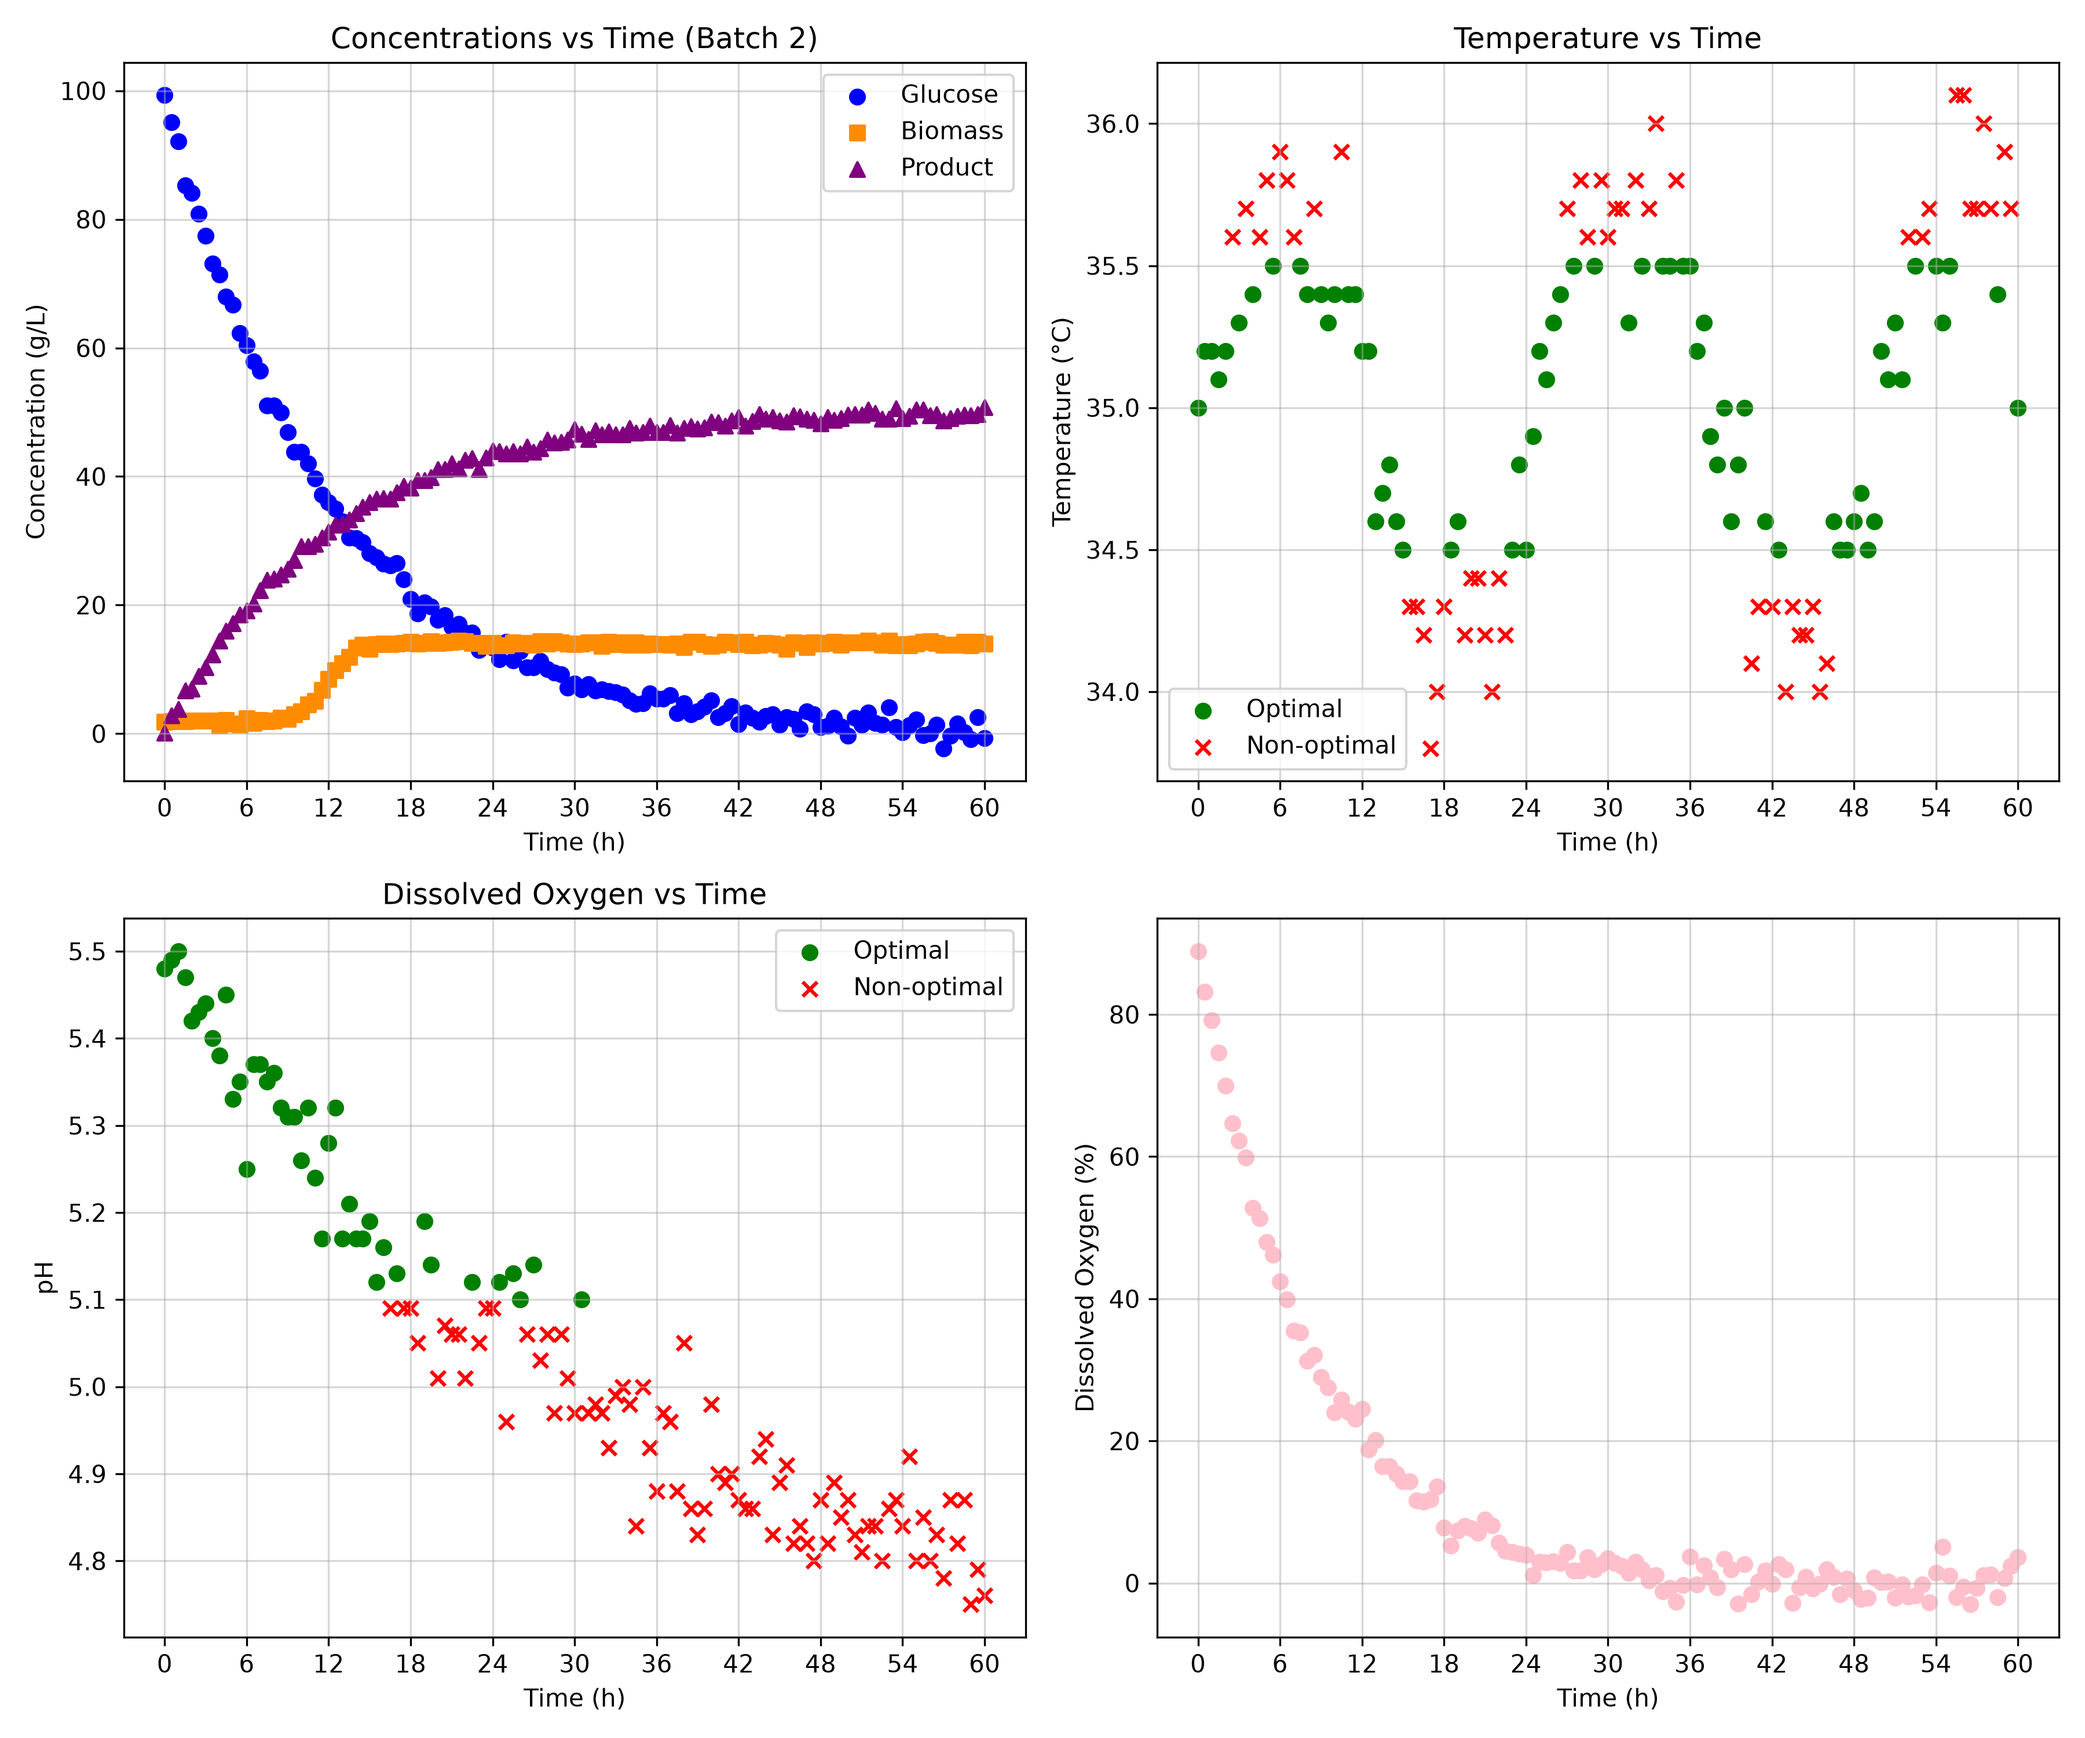
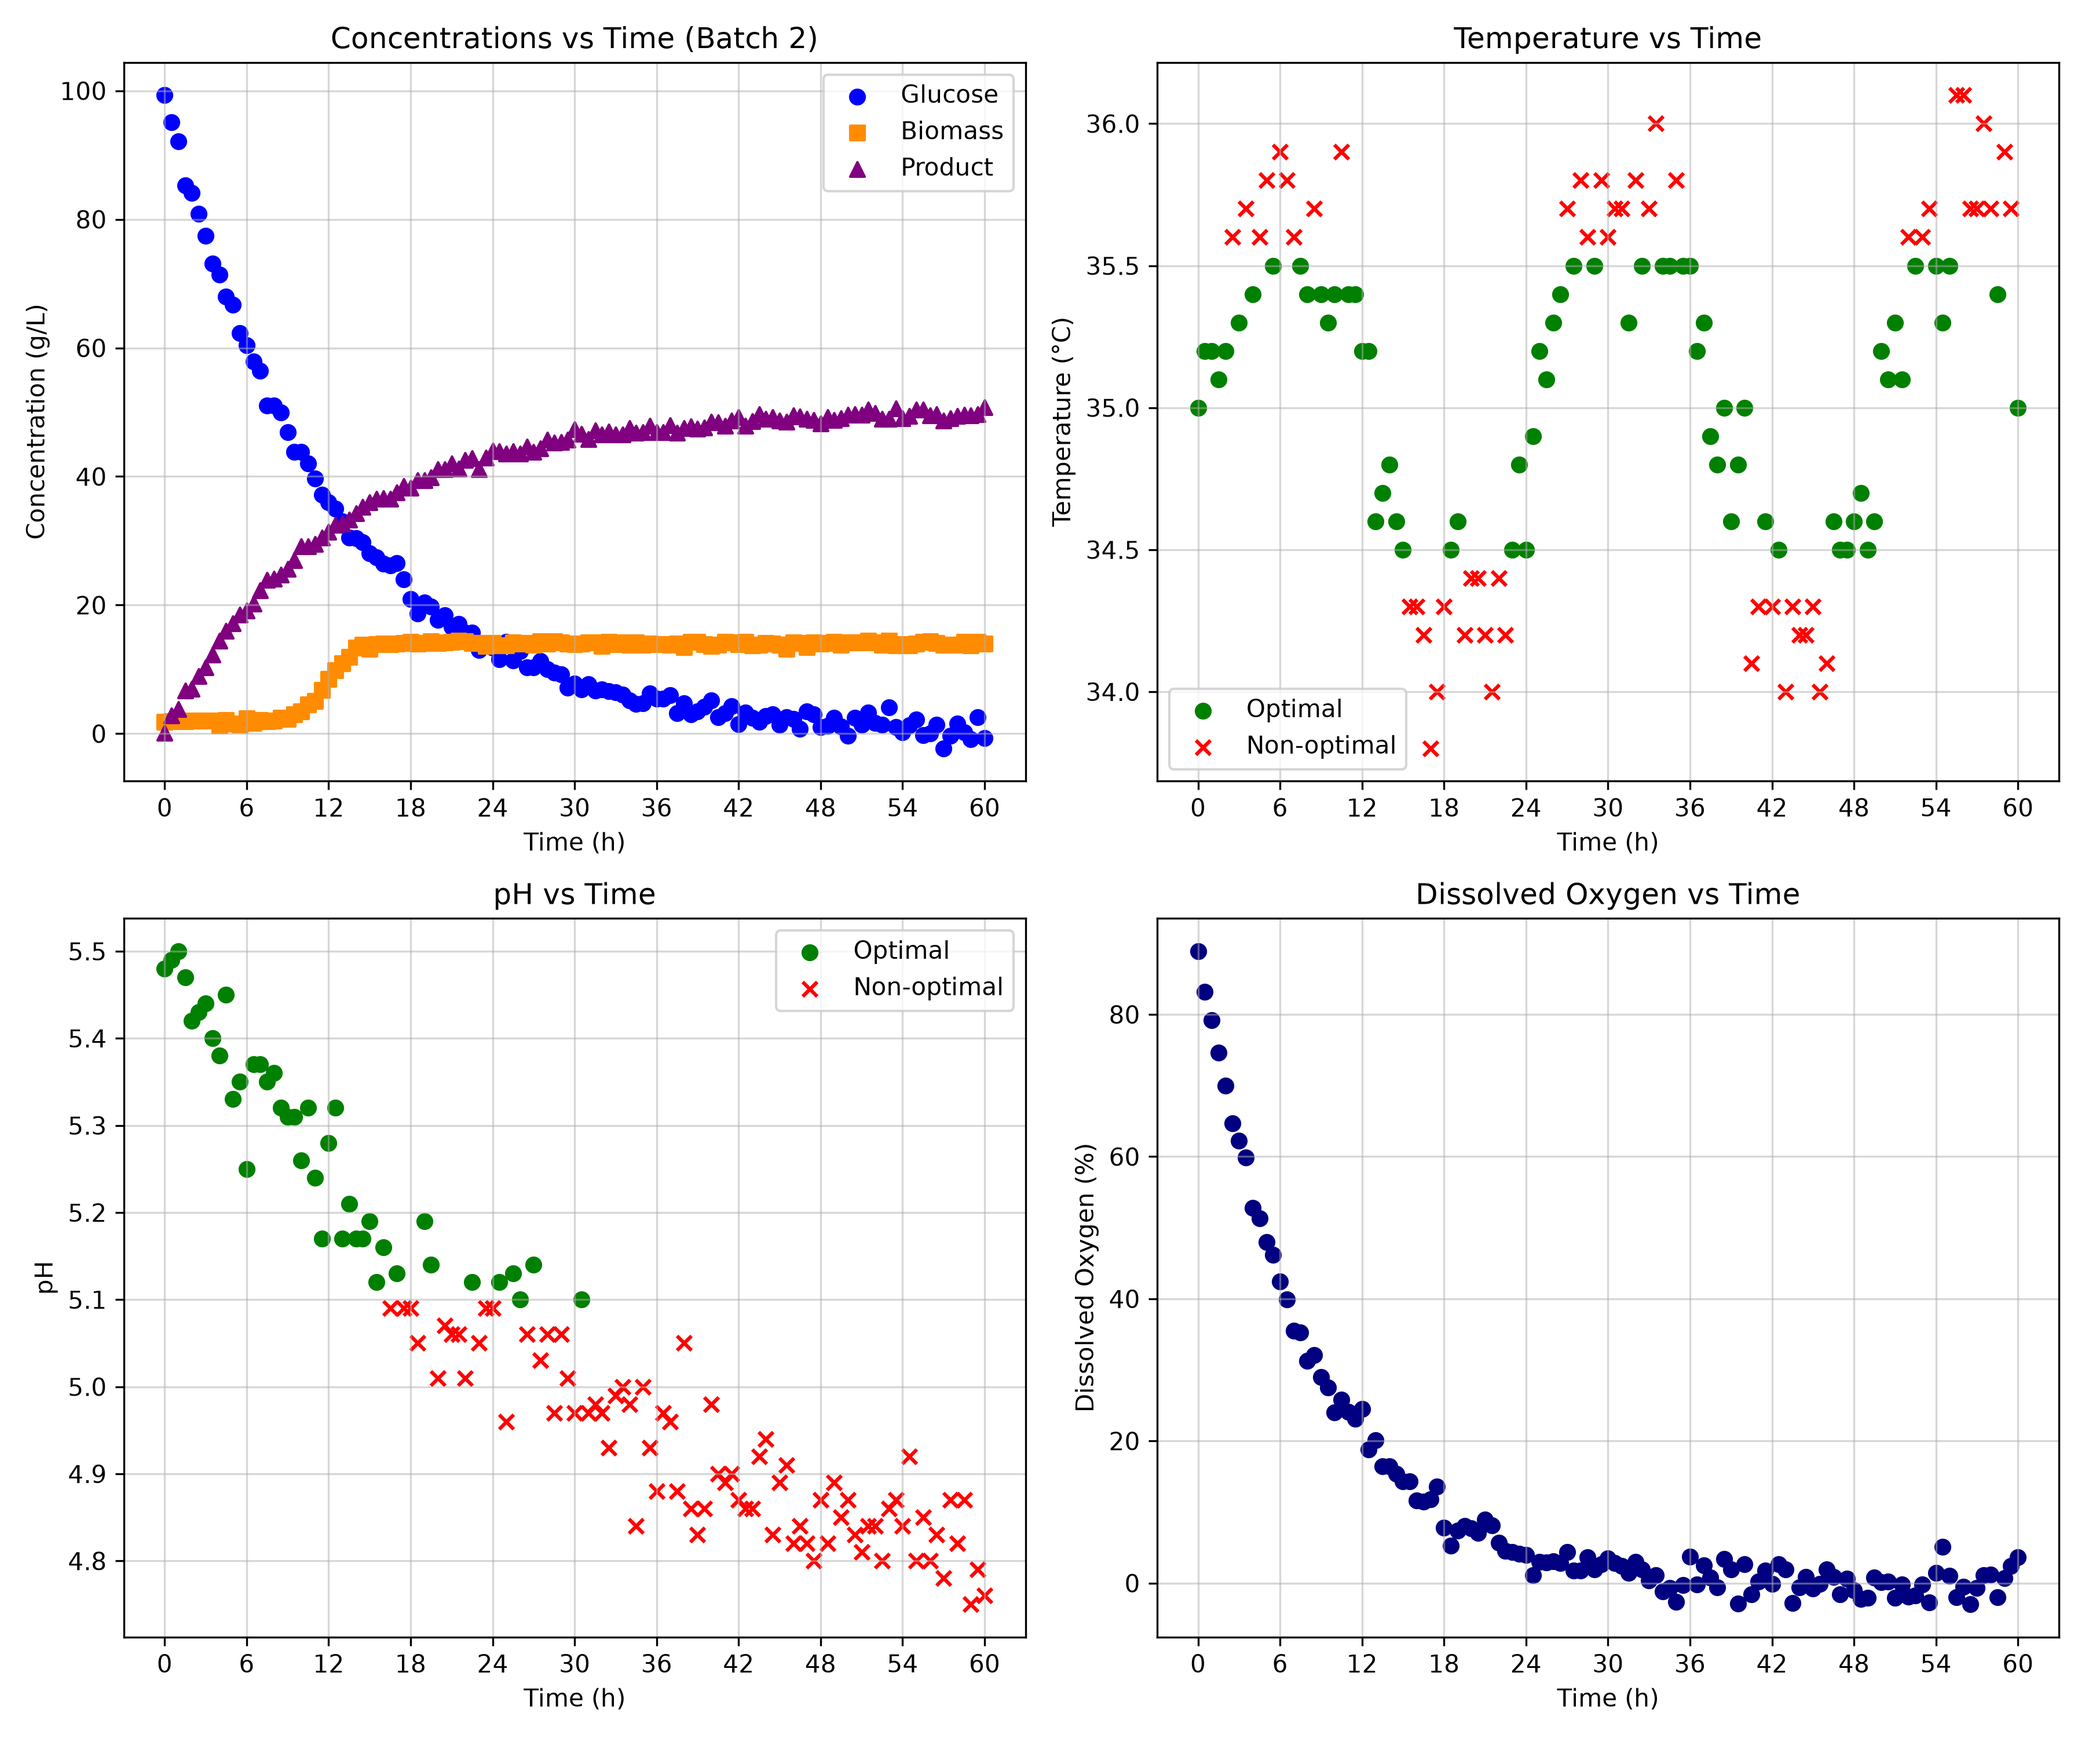
Complete Bioprocess Monitor

diff --git a/main.py b/main.py
@@ -2,9 +2,9 @@
 # MAIN PROGRAM
 # =====================================================================
 
-import src.functions as sf  # This allows you to access functions from functions.py using sf.function_name()
-from src.classes import Batch  # This allows you to import individual Classes from classes.py
-from src.constants import *  # This imports all constants from constants.py
+import src.functions as sf
+from src.classes import Batch
+from src.constants import *
 
 ph_optimal = sf.calculate_average(PH_LIMITS)
 temperature_optimal = sf.calculate_average(TEMPERATURE_LIMITS)
@@ -12,7 +12,6 @@ temperature_optimal = sf.calculate_average(TEMPERATURE_LIMITS)
 batch = Batch(batch_id=1, ph_opt=ph_optimal, temperature_opt=temperature_optimal)
 batch.display_info()
 
-## new below
 import os
 import matplotlib.pyplot as plt
 import matplotlib.ticker as ticker

diff --git a/src/classes.py b/src/classes.py
@@ -16,7 +16,7 @@ class Batch:
         print(f"Batch ID: {self.batch_id:4d} | "
               f"Optimal pH: {self.ph_opt:4.1f} | "
               f"Optimal Temperature: {self.temperature_opt:4.1f} C")
-## new below
+
 class BioprocessMonitor:
     def __init__(self, filepath, ph_lims, temperature_lims):
         self.filepath = filepath
@@ -91,8 +91,8 @@ class BioprocessMonitor:
 
         ## Dissolved Oxygen vs Time
         ax_DO=axes[1, 1]
-        ax_DO.scatter(df_batch["time_h"], df_batch["DO_percent"], color="pink", marker="o")
-        ax_ph.set_title("Dissolved Oxygen vs Time")
+        ax_DO.scatter(df_batch["time_h"], df_batch["DO_percent"], color="navy", marker="o")
+        ax_DO.set_title("Dissolved Oxygen vs Time")
         ax_DO.set_xlabel("Time (h)")
         ax_DO.set_ylabel("Dissolved Oxygen (%)")
         ax_DO.grid(True, alpha=0.5)

diff --git a/README.md b/README.md
@@ -2,14 +2,57 @@
 ###### An automated Python toolkit designed for monitoring **operating parameter deviations** from fermentation process datasets, generating **performance dashboards** and **summary tables**.
 
 ### Overview
-objectives..
+This project provides an automated pipeline for monitoring batch fermentation performance and tracking whether critical operating conditions remain in defined ranges. It reads raw sensor time-series data, checks pH and temperature against acceptable ranges, creates visual 4-plot dashboards, and exports summary tables for simple process monitoring. 
 
 ### Features
+* **Batch Filtering**: Automatically extracts individual batch runs from multi-batch CSV datasets.
+
+* **Dual-Tolerance Bound Checking (Modes A & B)**: Evaluates runs against both wide (Mode A) and strict (Mode B) limits to directly compare general operating compliance against optimal process control.
+
+* **Deviation Detection**: Flags when pH and temperature readings drift outside acceptable thresholds using vectorized boolean masks.
+
+* **4-Panel Dashboards**: Generates a clean 2x2 scatter plot for every batch showing growth kinetics, temperature, pH, and dissolved oxygen against time.
+
+* **Automated Summary Tables**: Calculates the percentage of time each batch stayed within optimal limits for both modes and tracks the final product yield.
 
 ### Technologies Used
+* **Python**: Core language used for the project.
+* **Pandas**: Reading datasets, separating batch records, and saving summary tables.
+* **Matplotlib**: Building and exporting the multi-panel scatter plots.
+* **NumPy**: Numeric operations and array handling.
 
 ### Code Design
+The repository utilizes an object-oriented and modular structure:
+* `src/constants.py`: Stores default limits for pH and temperature.
+* `src/functions.py`: Holds simple helper functions like computing averages.
+* `src/classes.py`: 
+  * `Batch`: Stores basic batch info and prints a quick terminal summary
+  * `BioprocessMonitor`: The main worker class that filters batches, checks bounds, builds plots, and exports tables.
+* `main.py`: The entry script that loops through operating modes (Mode A and Mode B) and generates all figures and tables.
+
 
 ### Dashboard Output
+For each batch, a 4-panel dashboard is generated and saved to `figures/`. These figures contain the following plots:
+
+![Batch 1 Mode B Dashboard](figures/Batch_001_Mode_B.png)
+* **Top-Left**: Glucose, Biomass, and Product concentration profiles ($g/L$) over elapsed time ($h$).
+* **Top-Right**: Temperature profile, highlighting optimal setpoints (green circles) versus deviations outside acceptable bounds (red X markers).
+* **Bottom-Left**: pH profile over time, indicating values within tolerance (green circles) and out-of-specification excursions (red X markers).
+* **Bottom-Right**: Dissolved oxygen percentage ($DO\%$) profile over time.
+
 
 ### Summary Table Output
+The summary CSV saved to `tables/` breaks down each batch across the following columns:
+
+| batch_id | ph_optimal_percent | temperature_optimal_percent | C_product_g_L^-1_final |
+| --- | --- | --- | --- |
+| 1 | 93.81 | 97.94 | 46.5 |
+| 2 | 96.69 | 97.52 | 50.8 |
+| 3 | 95.89 | 93.15 | 44.6 |
+| 4 | 100.0 | 96.47 | 48.6 |
+| 5 | 48.62 | 99.08 | 24.7 |
+
+* `batch_id`: The ID number of the fermentation run.
+* `ph_optimal_percent`: Percentage of pH measurements that fell within the target range (rounded to 2 decimal places).
+* `temperature_optimal_percent`: Percentage of temperature readings that stayed within bounds (rounded to 2 decimal places).
+* `C_product_g_L^-1_final`: The final concentration of product obtained at the end of the batch.
